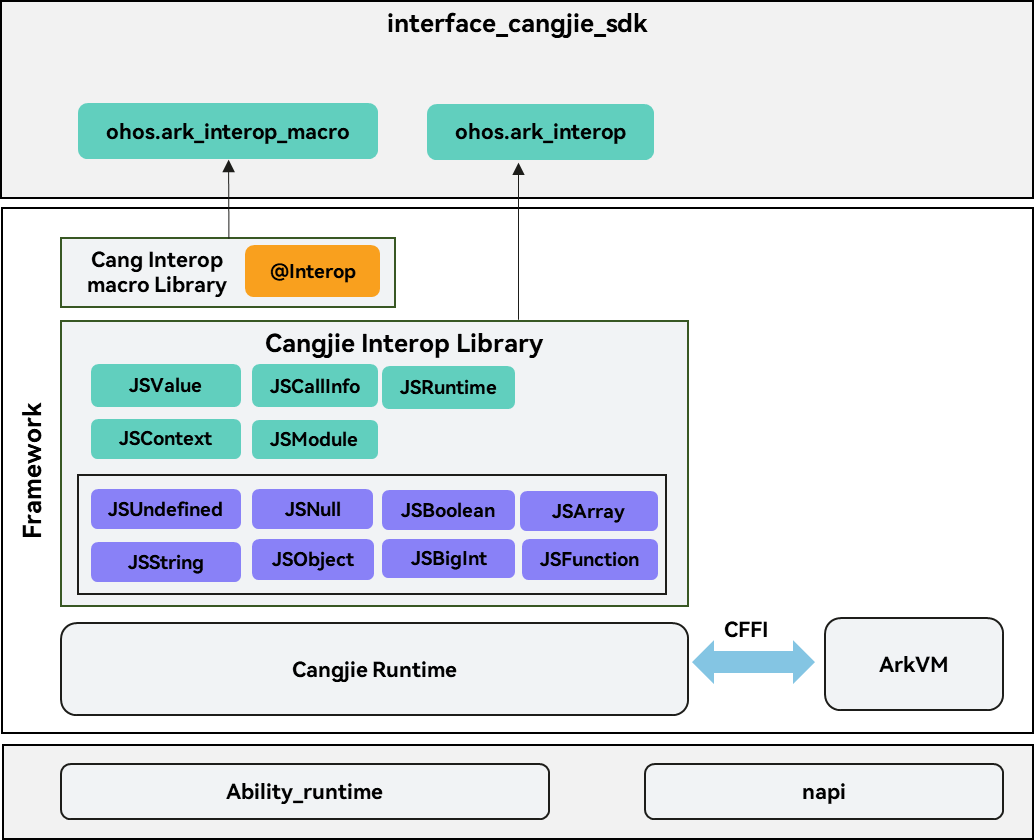
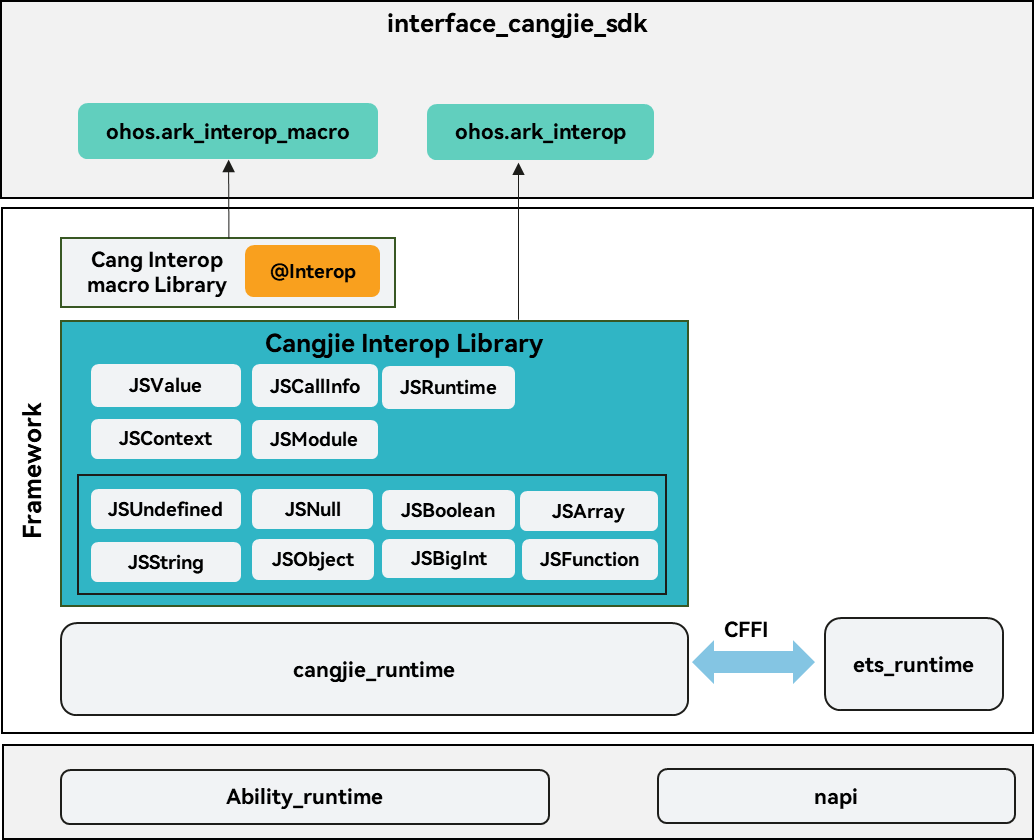
fixed doc

diff --git a/README.md b/README.md
@@ -2,29 +2,17 @@
 
 ## Introduction
 
-The Cangjie ArkTS Interop Library API is used to provide cross-language interoperability between Cangjie and ArkTS, includes the common interfaces, interop macro interfaces, and JSON and CFFI interfaces provided by the Cangjie Interop Library, hoping to provide developers with cross-language interop solutions that take into account both development efficiency and operational efficiency, provide a simple interop development paradigm, and reduce cross-language interop overhead.The overall structure is shown below.
+The Cangjie ArkTS Interop Library API is used to provide cross-language interoperability between Cangjie and ArkTS, includes the common interfaces, interop macro interfaces, hoping to provide developers with cross-language interop solutions that take into account both development efficiency and operational efficiency, provide a simple interop development paradigm, and reduce cross-language interop overhead.At the same time, this warehouse also provides public capability interfaces, including JSON serialisation and deserialisation interfaces, C language interoperability utility class interfaces, general exception interfaces, callback interfaces, API Level interfaces, and also offers public documentation, including a Cangjie API reference, application development guide, and Cangjie programming language user manual.Currently, the interfaces open in this warehouse only support standard devices.
 
-Framework architecture:
+The overall structure is shown below.
+
 ![cangjie interop API](./figures/cangjie-interop_eng.png)
 
 ** Architecture Description **
 
-For interop scenarios, Cangjie provides ark_interop libraries to achieve interop with ArkTS. 
-
-- The library mainly provides the following types of mappings.
-
-    | **Cangjie type**                                                 | **Cangjie Interop type** | **ArkTS  Typ** |
-    | ------------------------------------------------------------ | -------------------- | --------------- |
-    | Unit                                                         | JSUndefined          | undefined       |
-    | NA                                                           | JSNull               | null            |
-    | Bool                                                         | JSBoolean            | boolean         |
-    | Int8、Int16、Int32、Int64、UInt8、UInt16、UInt32、UInt64、Float16、Float32、Float64 | JSNumber             | number          |
-    | String                                                       | JSString             | string          |
-    | class、interface                                             | JSObject             | object          |
-    | Array                                                        | JSArray              | Array           |
-    | BigInt                                                       | JSBigInt             | bigint          |
-    | func                                                         | JSFunction           | function        |
-    | NA                                                           | JSSymbol             | symbol          |
+- Interface Description:
+    - Interoperability Library (ohos.ark_interop): Developers can use the APIs provided by interoperability to achieve cross-language parameter passing, function calls, and other capabilities.
+    - Interoperability Macro (ohos.ark_interop_macro): Developers use interoperability macros to annotate the Cangjie interfaces that need to be called by ArkTS code, automatically generating interoperability "glue" code and ArkTS interface declarations.
 
 - The library also provides the following key data structures:
 
@@ -34,13 +22,13 @@ For interop scenarios, Cangjie provides ark_interop libraries to achieve interop
     - JSContext: Used to represent context interoperable with ArkTS, providing module loading, JSValue creation, and more;
     - JSCallInfo: Used to represent a set of parameters that are called when an ArkTS interop call occurs;
 
-- The library completes the interoperability function by calling the interface provided by the ArkTS virtual machine and napi through CFFI.
+- The interoperability library mainly provides the following main types: JSUndefined, JSNull, JSBoolean, JSNumber, JSString, JSObject, JSArray, JSFunction, JSBigInt, etc.
 
-Note: The currently open Cangjie Interop interface only supports standard devices.
+- The library completes the interoperability function by calling the interface provided by the ArkTS virtual machine and napi through CFFI.
 
 ## Public ability
 
-This repository also provides interfaces for public capabilities, such as: JSON serialisation and deserialisation interfaces, C language interoperability interfaces, general exception interfaces, callback interfaces, and API level interfaces.
+This repository also provides interfaces for public capabilities, which are divided into two categories: the first category is for developers to call the public interfaces provided by the Cangjie API, including general exception interfaces and callback interfaces; the second category is for internal public interfaces used during the development of the Cangjie internal API, including JSON serialization and deserialization interfaces, C language interoperability utility class interfaces, and API Level interfaces.
 
 - JSON serialisation and deserialisation interfaces:Used for processing JSON data, achieving mutual conversion between String, JsonValue, and DataModel.
 - C language interoperability interfaces:Provides a utility class for managing C interoperability objects.
@@ -52,7 +40,7 @@ This repository also provides interfaces for public capabilities, such as: JSON 
 
 ```text
 arkcompiler/cangjie_ark_interop
-├── ohos                    # Cangjie interoperability API and public repository code
+├── ohos
 |    ├── ark_interop        # Cangjie Interop API
 |    ├── ark_interop_helper # Cangjie Interop library utility class
 |    ├── ark_interop_macro  # Cangjie Interop macro
@@ -70,9 +58,6 @@ arkcompiler/cangjie_ark_interop
 ├── figures                # Images used in the README
 ├── test                   # Cangjie interop testcases
 ```
-
-## Constraints
-
 
 ## Usage Scenarios
 
@@ -95,13 +80,6 @@ For more detailed examples, please refer to[Using ArkTS Modules in Cangjie Appli
 At the same time, in response to the development complexity brought about by interop, Cangjie provides a declarative interoperability macro ark_interop_macro, which allows developers to use the macro "@Interop[ArkTS]" to mark the functions or types that need to be exported to ArkTS in the Cangjie code, and automatically generate the interoperability "glue layer" code and ArkTS interface declarations during the compilation stage, reducing the complexity of the developer's handwritten interoperability code.
 
 For more detailed examples, please refer to[Cangjie-ArkTS Declarative Interop Macros](https://gitcode.com/openharmony-sig/arkcompiler_cangjie_ark_interop/blob/master/doc/User_Manual/source_en/FFI/cangjie-arkts/interoperability_macro.md)
-
-![Cangjie interoperability flow chart](./figures/api_eng.png)
-
-Module Description:
-
-- Interop Libraries: Developers can call APIs provided by Interop to achieve cross-language parameter passing, function calling, and other capabilities.
-- Interop macros: Developers use interoperability macros to mark Cangjie interfaces that need to be called by ArkTS code, and can automatically generate interop "glue" code and ArkTS interface declarations.
 
 ## Developer Document
 

diff --git a/README_zh.md b/README_zh.md
@@ -2,49 +2,39 @@
 
 ## 简介
 
-仓颉ArkTS互操作库API，用于提供仓颉与ArkTS跨语言互操作能力，包含仓颉互操作库接口、互操作宏接口以及公共能力接口，期望给开发者提供兼顾开发效率和运行效率的跨语言互操作解决方案，提供简洁的互操作开发范式，降低跨语言互通开销。整体架构如下图所示：
+仓颉-ArkTS互操作接口，用于提供仓颉与ArkTS跨语言互操作能力，包含仓颉互操作库接口、互操作宏接口，期望给开发者提供兼顾开发效率和运行效率的跨语言互操作解决方案，提供简洁的互操作开发范式，降低跨语言互通开销。同时本仓还提供了公共能力接口，包含JSON序列化和反序列化接口、C语言互操作工具类接口、通用异常接口、回调接口、API Level接口，并且还提供了公共文档，包含仓颉API参考、应用开发指南和仓颉编程语言用户手册。当前本仓开放的接口仅支持standard设备。
+
+整体架构如下图所示：
 
 ![仓颉互操作API框架](./figures/cangjie-interop.png)
 
 **架构图说明**
 
-针对互操作场景诉求，仓颉提供ark_interop互操作库来实现与ArkTS的互操作。
+- 接口说明：
 
-- 互操作库主要提供以下类型映射：
-
-    | **仓颉类型**                                                 | **仓颉互操作库类型** | **ArkTS  类型** |
-    | ------------------------------------------------------------ | -------------------- | --------------- |
-    | Unit                                                         | JSUndefined          | undefined       |
-    | 无                                                           | JSNull               | null            |
-    | Bool                                                         | JSBoolean            | boolean         |
-    | Int8、Int16、Int32、Int64、UInt8、UInt16、UInt32、UInt64、Float16、Float32、Float64 | JSNumber             | number          |
-    | String                                                       | JSString             | string          |
-    | class、interface                                             | JSObject             | object          |
-    | Array                                                        | JSArray              | Array           |
-    | BigInt                                                       | JSBigInt             | bigint          |
-    | func                                                         | JSFunction           | function        |
-    | 无                                                           | JSSymbol             | symbol          |
+    - 互操作库(ohos.ark_interop)：开发者通过调用互操作提供的API，实现跨语言参数传递、函数调用等能力。
+    - 互操作宏(ohos.ark_interop_macro)：开发者使用互操作宏来标注需要被ArkTS代码调用的仓颉接口，能够自动生成互操作“胶水”代码及ArkTS接口声明。
 
 - 互操作库还提供以下的关键数据结构：
 
     - JSValue: 用于表示来自ArkTS中的对象（如数字、字符串、对象、函数），是仓颉与ArkTS类型转换的桥梁。
     - JSModule: JSModule的目标是提供符号导出能力（导出到ArkTS）。配合自定义静态初始化函数，在动态库被加载时把导出目标注册到全局表，并由ArkTS引擎来执行导出。
-    - JSRuntime: 仓颉创建的 ArkTS 运行时。
+    - JSRuntime: 用于表示仓颉创建的 ArkTS 运行时。
     - JSContext: 用于表示与ArkTS互操作的上下文，提供模块加载、JSValue创建等能力。
     - JSCallInfo: 用于表示当发生来自于ArkTS互操作调用时 调用的参数集合。
 
-- 互操作库通过C语言互操作调用ArkTS虚拟机和napi提供的接口完成互操作功能。
+- 互操作库主要提供以下主要类型有JSUndefined,JSNull,JSBoolean,JSNumber,JSString,JSObject,JSArray,JSFunction,JSBigInt等。
 
-说明：当前开放的仓颉互操作接口仅支持standard设备。
+- 互操作库通过C语言互操作调用ArkTS虚拟机和napi提供的接口完成互操作功能。
 
 ## 公共能力
 
-本仓库还提供了公共能力的接口，比如：JSON序列化和反序列化接口、C语言互操作接口、通用异常接口、回调接口、API Level接口。
+本仓库还提供了公共能力的接口，这些接口共分两类，第一类用于开发者调用仓颉API时提供的公共接口，包含通用异常接口、回调接口；第二类用于仓颉内部API开发时，使用的内部公共接口，包含JSON序列化和反序列化接口、C语言互操作工具类接口和API Level接口。
 
-- JSON序列化和反序列化接口：用于对JSON数据的处理，实现String,JsonValue,DataModel之间的相互转换。
-- C语言互操作接口：提供了管理C互操作对象的工具类。
 - 通用异常接口：提供了通用的异常类BusinessException。
 - 回调接口：提供了用于函数回调参数的工具类。
+- JSON序列化和反序列化接口：用于对JSON数据的处理，实现String,JsonValue,DataModel之间的相互转换。
+- C语言互操作工具类接口：提供了管理C互操作对象的工具类。
 - API Level接口：提供了API Level的接口，用于获取当前API Level。
 
 
@@ -52,7 +42,7 @@
 
 ```text
 arkcompiler/cangjie_ark_interop
-├── ohos                   # 仓颉互操作API及公共能力代码
+├── ohos
 |   ├── ark_interop        # 仓颉互操作库
 |   ├── ark_interop_helper # 仓颉互操作库工具类
 |   ├── ark_interop_macro  # 仓颉互操作库宏
@@ -71,11 +61,7 @@ arkcompiler/cangjie_ark_interop
 ├── test                   # 仓颉互操作测试用例
 ```
 
-## 约束
-
 ## 使用场景
-
-包含仓颉-ArkTS互操作库，用于仓颉-ArkTS互操作。json库/APILevel/C语言互操作库为基础功能库，提供给仓颉API/仓颉UI等子系统等公共能力。
 
 在OpenHarmony应用开发中，存在使用仓颉与ArkTS混合开发的诉求，例如以下场景：
 
@@ -88,13 +74,6 @@ arkcompiler/cangjie_ark_interop
 详细的例子请参考：[仓颉应用中使用 ArkTS 模块](https://gitcode.com/openharmony-sig/arkcompiler_cangjie_ark_interop/blob/master/doc/User_Manual/source_zh_cn/FFI/cangjie-arkts/using_arkts_module.md)
 
 同时针对互操作带来的开发复杂度，仓颉提供声明式互操作宏ark_interop_macro，使开发者可以使用宏“@Interop[ArkTS]”标注仓颉代码中需要导出给ArkTS使用的函数或类型，在编译阶段自动生成互操作“胶水层”代码及ArkTS接口声明，减少开发者手写互操作代码的复杂度。详细的例子请参考：[仓颉- ArkTS 声明式互操作宏](https://gitcode.com/openharmony-sig/arkcompiler_cangjie_ark_interop/blob/master/doc/User_Manual/source_zh_cn/FFI/cangjie-arkts/interoperability_macro.md)。
-
-![仓颉互操作流程图](./figures/api.png)
-
-模块说明：
-
-- 互操作库：开发者通过调用互操作提供的API，实现跨语言参数传递、函数调用等能力。
-- 互操作宏：开发者使用互操作宏来标注需要被ArkTS代码调用的仓颉接口，能够自动生成互操作“胶水”代码及ArkTS接口声明。
 
 ## 开发者文档
 
